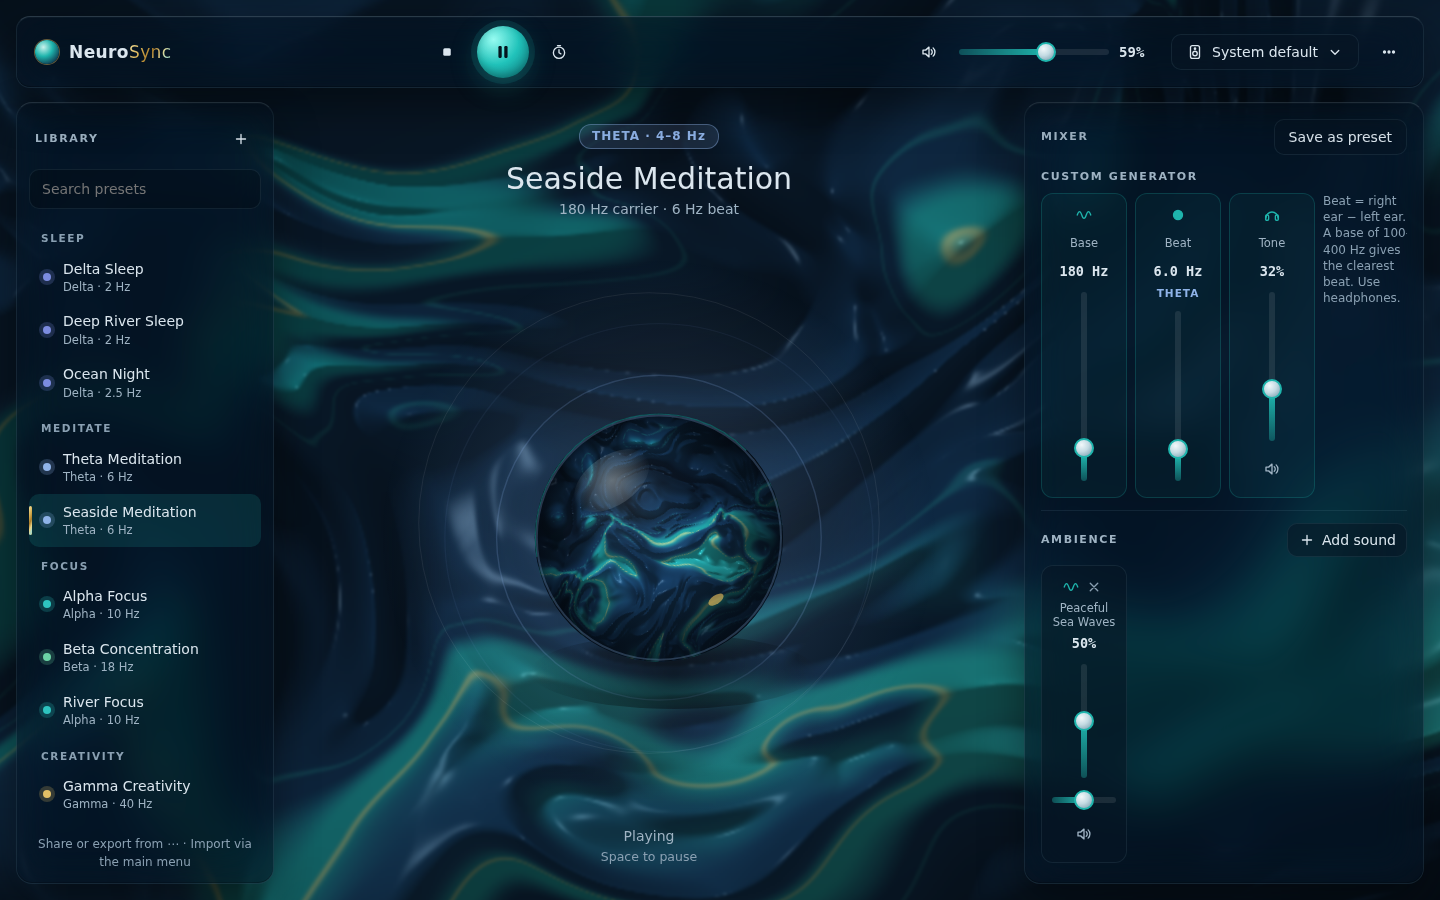
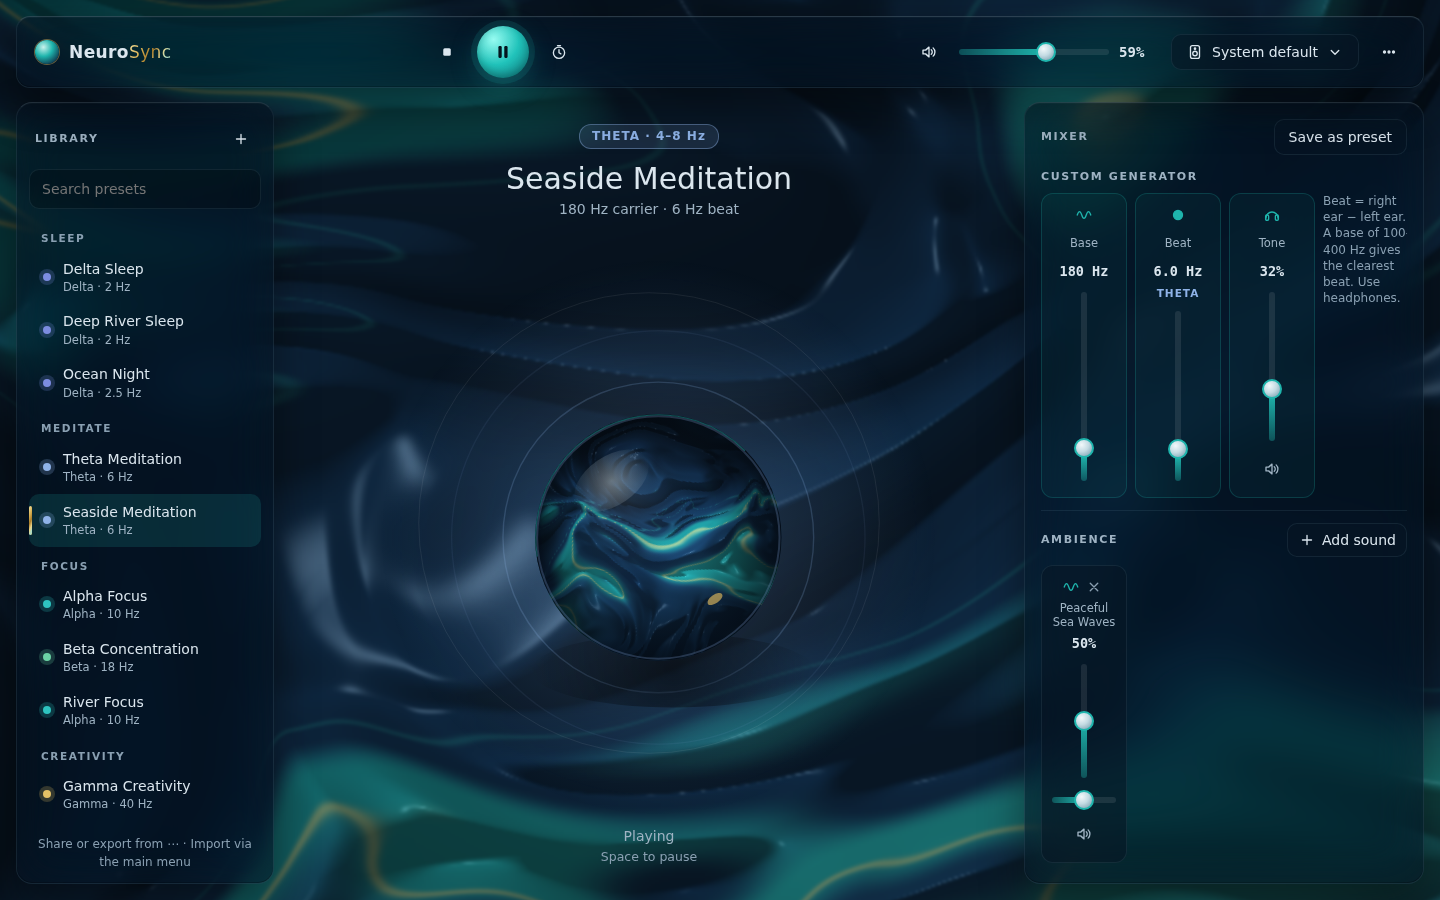
Liquid design: zoom the pour painting to 160% for a cleaner look
- renderPour gains a zoom option (magnifies around the centre: same composition,
  larger and calmer flows); background and orb marble default to 160%
- specular bump scaled with zoom so the wet sheen is unchanged

Claude-Session: https://claude.ai/code/session_01Y75uZTikZ6uwaoCSNCnxfq

diff --git a/web/src/ui/pour.ts b/web/src/ui/pour.ts
@@ -68,21 +68,23 @@ function paint(h: number, detail: number): RGB {
  * which suits the soft, wet look). Light comes from the upper left; specular highlights give
  * the glossy sheen; a vignette keeps the edges dark for night use.
  */
-export interface PourOptions { seed?: number; scale?: number; brightness?: number; octaves?: number; warp?: number; warp2?: number }
+/** zoom > 1 magnifies the painting around its centre (same composition, larger and calmer flows). */
+export interface PourOptions { seed?: number; scale?: number; brightness?: number; octaves?: number; warp?: number; warp2?: number; zoom?: number }
 export function renderPour(w: number, h: number, o: PourOptions = {}): ImageData {
   // Defaults chosen from side-by-side variants: calm, dark centre (orb + text sit on deep Prussian),
   // turquoise rivers and gold lacing toward the edges.
-  const { seed = 42, scale = 1.7, brightness = 0.78, octaves = 3, warp = 3.6, warp2 = 2.4 } = o;
+  const { seed = 42, scale = 1.7, brightness = 0.78, octaves = 3, warp = 3.6, warp2 = 2.4, zoom = 1.6 } = o;
   const field = makeNoise(seed, octaves, warp, warp2);
   const img = new ImageData(w, h);
   const hts = new Float32Array((w + 2) * (h + 2));
   const aspect = h / w;
   for (let y = -1; y <= h; y++)
-    for (let x = -1; x <= w; x++) hts[(y + 1) * (w + 2) + (x + 1)] = field((x / w) * scale, (y / h) * scale * aspect);
+    for (let x = -1; x <= w; x++)
+      hts[(y + 1) * (w + 2) + (x + 1)] = field(((x / w - 0.5) / zoom + 0.5) * scale, ((y / h - 0.5) / zoom + 0.5) * scale * aspect);
   const L = [-0.45, -0.62, 0.64];
   const Ln = Math.hypot(L[0]!, L[1]!, L[2]!);
   const lx = L[0]! / Ln, ly = L[1]! / Ln, lz = L[2]! / Ln;
-  const bump = Math.max(w, h) * 1.1;
+  const bump = Math.max(w, h) * 1.1 * zoom;   // keep the same wet sheen when magnified
   for (let y = 0; y < h; y++) {
     for (let x = 0; x < w; x++) {
       const i = (y + 1) * (w + 2) + (x + 1);
@@ -111,6 +113,6 @@ export function renderPour(w: number, h: number, o: PourOptions = {}): ImageData
 export function marbleTexture(size: number, seed = 777): HTMLCanvasElement {
   const c = document.createElement('canvas');
   c.width = c.height = size;
-  c.getContext('2d')!.putImageData(renderPour(size, size, { seed, scale: 1.6, brightness: 1.15, octaves: 4, warp: 4, warp2: 3.5 }), 0, 0);
+  c.getContext('2d')!.putImageData(renderPour(size, size, { seed, scale: 1.6, brightness: 1.15, octaves: 4, warp: 4, warp2: 3.5, zoom: 1.6 }), 0, 0);
   return c;
 }
